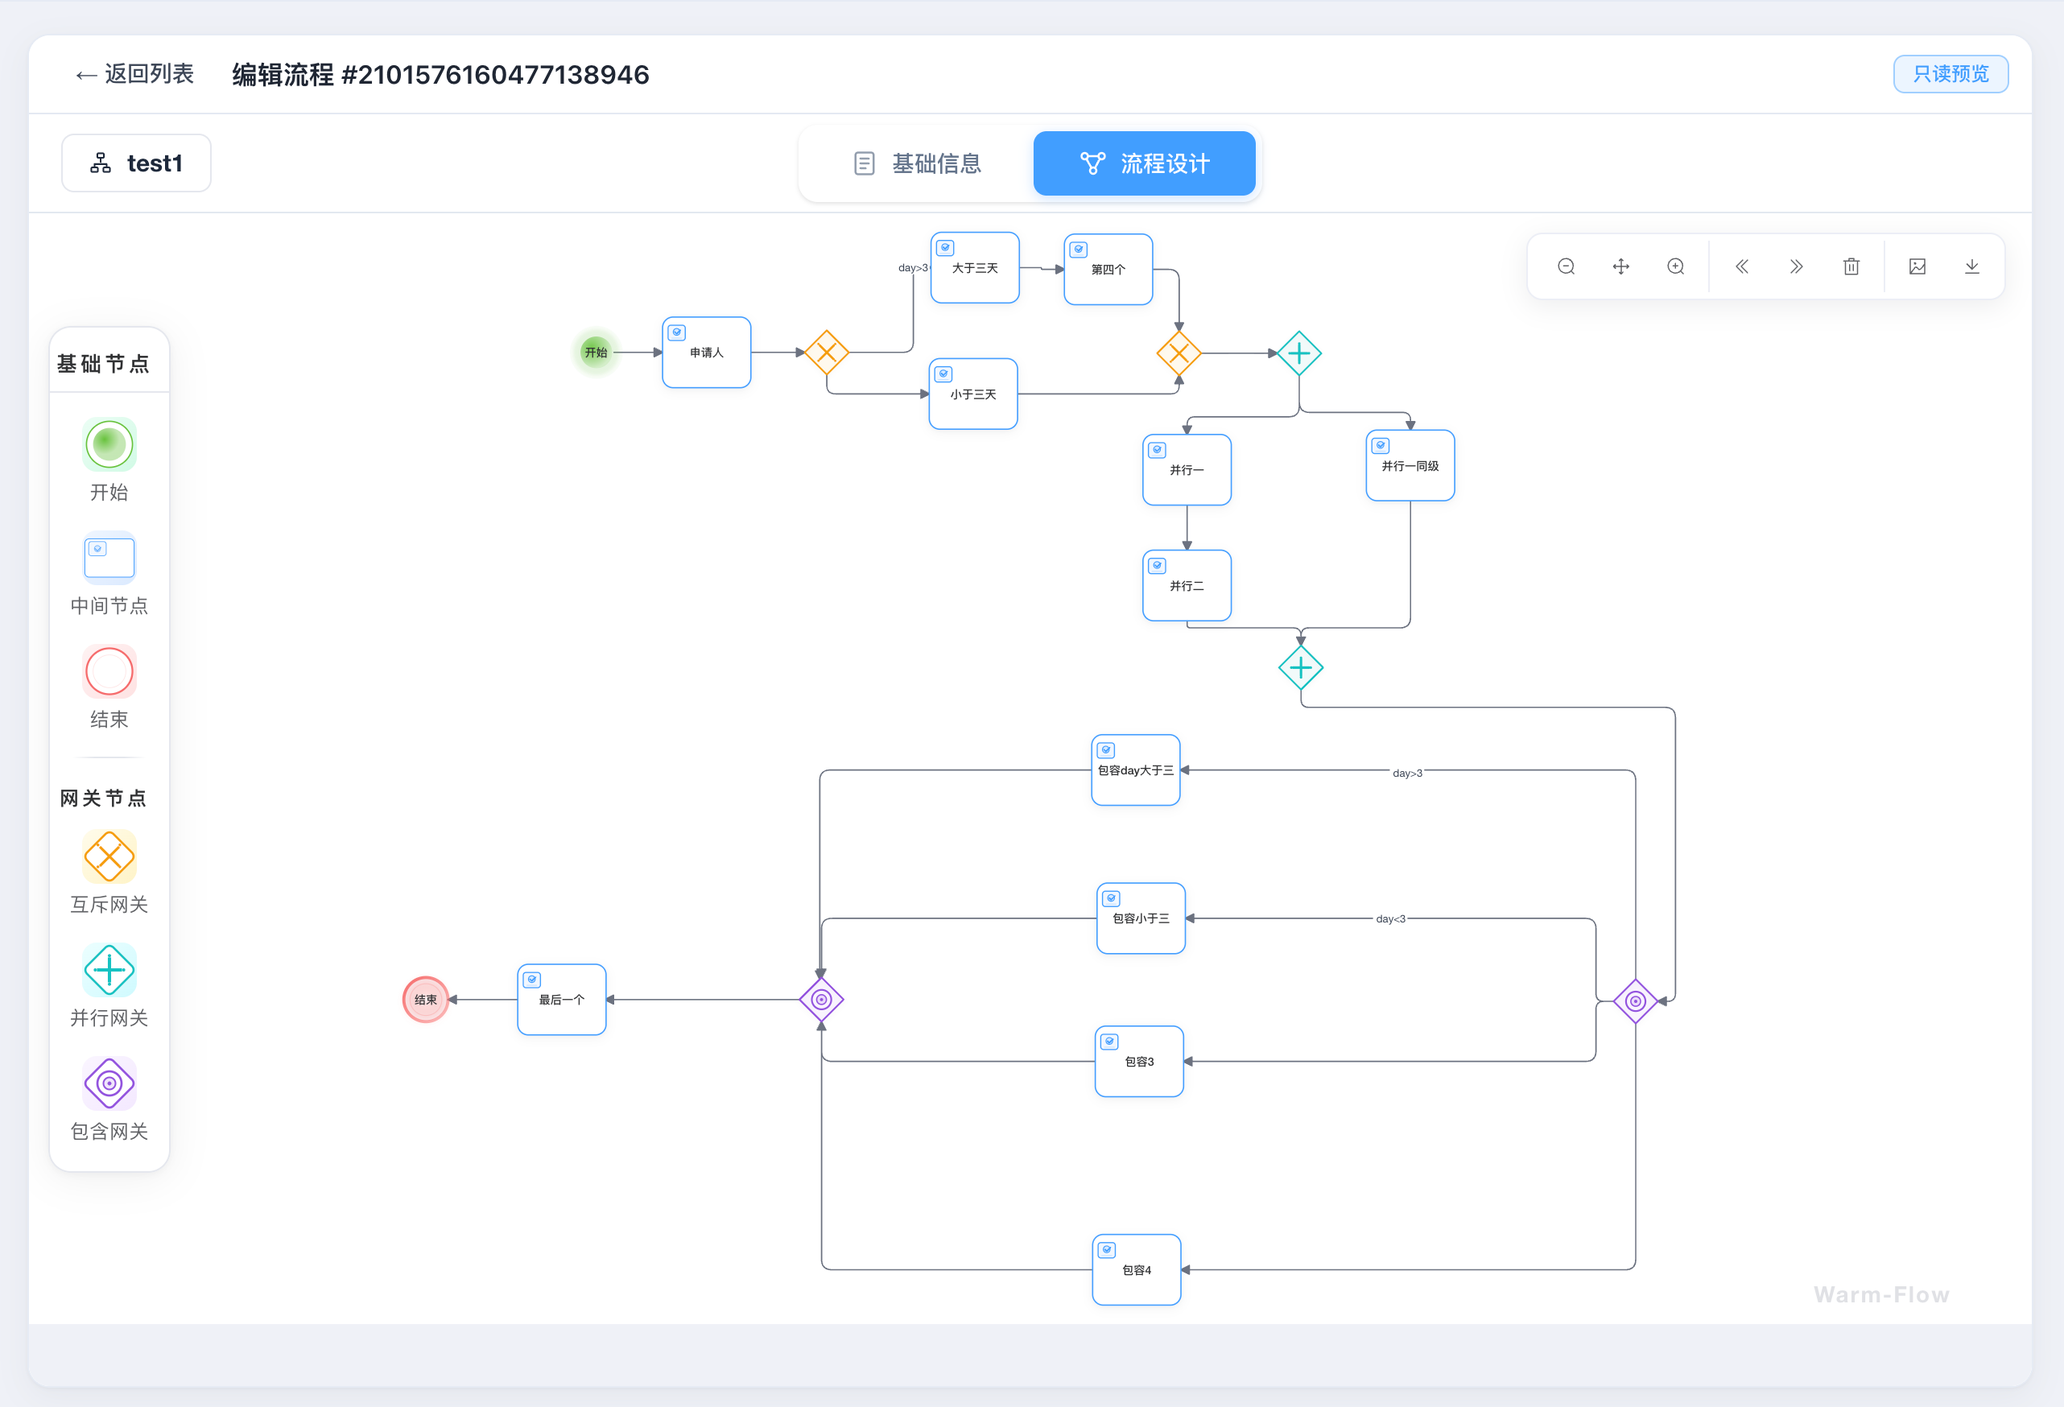
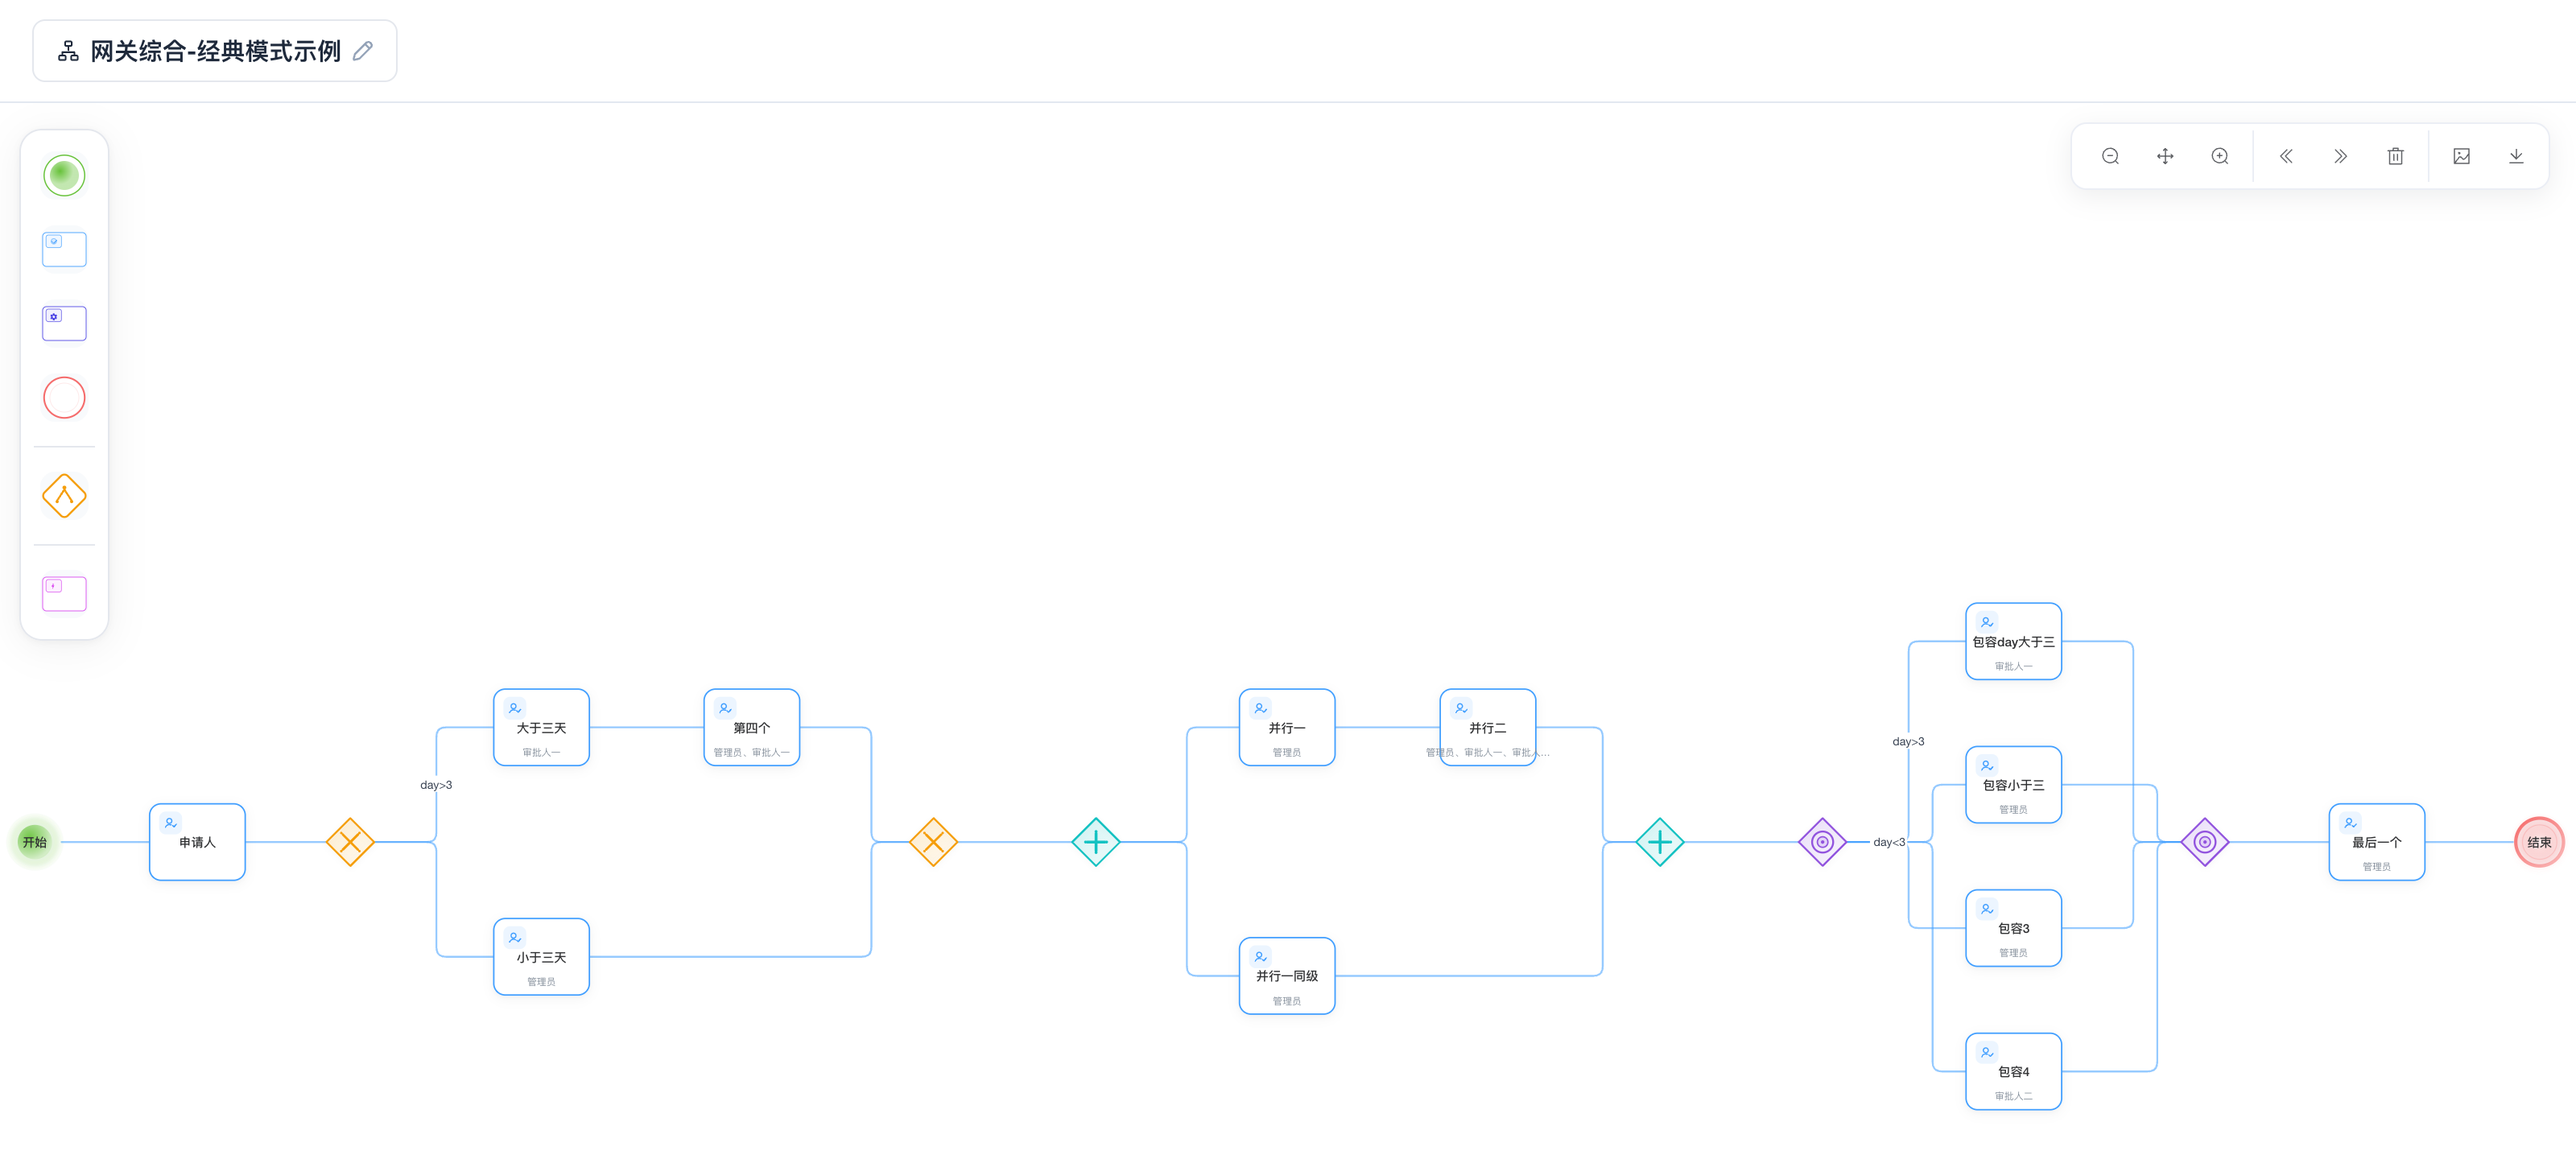
style: 文档站样式与主题优化
- 新增 ux.scss，tokens/content/index 同步；theme 关闭面包屑、汉化上下篇文案
- 设计器两种模型截图重新导出（classic/dingtalk）

diff --git a/src/.vuepress/styles/ux.scss b/src/.vuepress/styles/ux.scss
@@ -1,0 +1,77 @@
+// 使用与交互打磨：焦点环 / 滚动条 / reduced-motion / 搜索弹窗统一。
+// 均为全局增强，不影响布局与既有组件样式。
+
+// ------------------------------------------------------------
+// 1. 键盘焦点环：浏览器默认 outline 在两套主题下观感不一，
+//    统一为品牌色 2px 环。只在 :focus-visible（键盘导航）时出现，
+//    鼠标点击不会显示，搜索输入框自带的边框样式也不受影响。
+// ------------------------------------------------------------
+:focus-visible {
+    outline: 2px solid var(--wv-brand);
+    outline-offset: 2px;
+}
+
+// ------------------------------------------------------------
+// 2. 细滚动条：侧栏与 TOC 用系统默认滚动条，Windows 下粗黑突兀，
+//    统一成窄条 + 主题分隔线色（悬停加深），与正文观感一致。
+// ------------------------------------------------------------
+.vp-sidebar > .vp-sidebar-links,
+.vp-toc-wrapper,
+.vp-toc-wrapper-inner {
+    scrollbar-width: thin;
+    scrollbar-color: var(--wv-line) transparent;
+
+    &::-webkit-scrollbar {
+        width: 6px;
+        height: 6px;
+    }
+    &::-webkit-scrollbar-thumb {
+        border-radius: 6px;
+        background: var(--wv-line);
+
+        &:hover { background: var(--wv-fg-mute); }
+    }
+    &::-webkit-scrollbar-track {
+        background: transparent;
+    }
+}
+
+// ------------------------------------------------------------
+// 3. 搜索弹窗统一到站点色板：
+//    - 关键词 mark 高亮：浏览器默认是刺眼的黄色荧光笔底，
+//      改为品牌色柔和底 + 前景色不变（亮暗主题都成立）
+//    - 选中/悬停记录的背景走 --vp-c-accent-hover（tokens.scss 已映射到品牌深蓝），
+//      白字与蓝底的对比度 4.6:1，满足正文要求
+// ------------------------------------------------------------
+.slimsearch-record-matches mark,
+.slimsearch-suggestions mark {
+    padding: 0 2px;
+    border-radius: 3px;
+    background: color-mix(in srgb, var(--wv-amber) 28%, transparent);
+    color: inherit;
+}
+
+.slimsearch-record-matches.active mark,
+.slimsearch-record-matches:hover mark {
+    background: rgba(255, 255, 255, 0.28);
+}
+
+// 弹窗圆角与站点卡片一致
+.slimsearch-modal {
+    border: 1px solid var(--wv-line);
+}
+
+// ------------------------------------------------------------
+// 4. 减弱动态效果：尊重系统「减少动态效果」偏好，
+//    关闭装饰性动画与过渡（滚动定位仍即时可用）。
+// ------------------------------------------------------------
+@media (prefers-reduced-motion: reduce) {
+    *,
+    *::before,
+    *::after {
+        animation-duration: 0.01ms !important;
+        animation-iteration-count: 1 !important;
+        transition-duration: 0.01ms !important;
+        scroll-behavior: auto !important;
+    }
+}

diff --git a/src/.vuepress/styles/content.scss b/src/.vuepress/styles/content.scss
@@ -16,6 +16,12 @@
     }
     h3 { margin-top: 1.8em; }
 
+    // 锚点跳转防遮挡：导航栏是 fixed 且高 44px，而标题 scroll-margin-top 默认为 0，
+    // 点目录跳转时标题会正好落在 top:0 被导航栏整行盖住（实测被遮 44px）。
+    :is(h1, h2, h3, h4, h5, h6) {
+        scroll-margin-top: 60px;
+    }
+
     a { color: var(--wv-brand); }
 
     // 行内代码
@@ -47,10 +53,15 @@
     }
     table img { max-width: 100%; }
 
-    // 正文图片：描边 + 圆角 + 居中
+    // 正文图片：描边 + 圆角 + 居中 + 不透明浅色底板
+    // 底板是给 SVG 插图用的：画布透明，暗色主题下浅灰文字会落到近黑背景上（详见 tokens.scss）
+    // height: auto 必需：插图写了 width/height 属性（预留空间防抖动），
+    // 若不禁用固定高度，窄屏下 max-width 把宽度压小、高度仍按属性值 → 图外多出一圈空白
     img {
         border: 1px solid var(--wv-line);
         border-radius: 10px;
+        background: var(--wv-figure-bg);
+        height: auto;
     }
     p:has(> img) { text-align: center; }
 
@@ -84,11 +95,40 @@
     background: var(--wv-amber);
 }
 
-// 底部翻页卡片
-.vp-page-nav a {
-    border: 1px solid var(--wv-line);
-    border-radius: 10px;
-    background: var(--wv-bg);
+// 底部翻页卡片：覆盖 theme-hope 默认的贴边小框样式，
+// 做成对称的两张卡（仅单边有链接时自动占满整行），hint 是小字标签、标题加粗
+.vp-page-nav {
+    gap: 12px;
+    padding-block: 1.25rem;
+    border-top: 1px solid var(--wv-line);
+
+    .auto-link {
+        flex: 1 1 0;
+        margin: 0;
+        padding: 12px 16px;
+        border: 1px solid var(--wv-line);
+        border-radius: 10px;
+        background: var(--wv-bg);
+        color: var(--wv-fg);
+        transition: border-color .2s, background .2s;
+
+        &:hover {
+            background: var(--wv-bg-hero);
+            border-color: var(--wv-brand);
+        }
+
+        .hint {
+            font-size: 11.5px;
+            line-height: 1.6;
+            color: var(--wv-fg-mute);
+        }
+
+        .link {
+            margin-top: 4px;
+            font-weight: 600;
+            color: var(--wv-brand);
+        }
+    }
 }
 
 // 右侧 TOC 导轨

diff --git a/src/.vuepress/styles/tokens.scss b/src/.vuepress/styles/tokens.scss
@@ -7,6 +7,9 @@
     --wv-bg: #ffffff;
     --wv-bg-soft: #f6f8fa;
     --wv-bg-hero: #eef4fa;
+    // 图示底板：正文里的 SVG 图是「浅色填充 + 浅灰文字」的配色，
+    // 画布本身透明，必须给一层不透明浅底，否则文字会落在页面底色上（暗色下对比度崩到 1.3:1）
+    --wv-figure-bg: #ffffff;
     --wv-fg: #1c2933;
     --wv-fg-mute: #5b6b7a;
     --wv-line: #e3e9ef;
@@ -24,6 +27,7 @@
     --vp-c-divider: var(--wv-line);
     --vp-c-accent: var(--wv-brand);
     --vp-c-accent-bg: var(--wv-brand);
+    --vp-c-accent-hover: var(--wv-brand-ink);
     --vp-c-accent-soft: var(--wv-bg-hero);
 }
 
@@ -35,6 +39,9 @@ html.dark {
     --wv-bg: #0d1117;
     --wv-bg-soft: #11161d;
     --wv-bg-hero: #0f1e2d;
+    // 暗色下也保持浅底（不透明白色）：图示配色为浅色系，
+    // 若让画布透明，图内 #5F5E5A 文字压在 #0d1117 上仅约 2.9:1、标题 #2C2C2A 仅约 1.3:1
+    --wv-figure-bg: #ffffff;
     --wv-fg: #d5dde5;
     --wv-fg-mute: #8b98a5;
     --wv-line: #1f2630;
@@ -48,6 +55,7 @@ html.dark {
     --vp-c-divider: var(--wv-line);
     --vp-c-accent: var(--wv-brand);
     --vp-c-accent-bg: var(--wv-brand);
+    --vp-c-accent-hover: #2b5c8f;
     --vp-c-accent-soft: var(--wv-bg-hero);
 }
 

diff --git a/src/.vuepress/theme.ts b/src/.vuepress/theme.ts
@@ -15,6 +15,9 @@ export default hopeTheme(
         docsDir: "src",
         print: false,
         pageInfo: false,
+        // 面包屑只能显示 Master / Primary 这类英文目录名（页面 H1 + 侧栏 + TOC 已覆盖导航），
+        // 显示出来反而拉低观感，直接关闭
+        breadcrumb: false,
         locales: {
             "/": {
                 navbar,
@@ -22,6 +25,8 @@ export default hopeTheme(
                 displayFooter: false,
                 metaLocales: {
                     editLink: "前往 Gitee 编辑此页",
+                    prev: "上一篇",
+                    next: "下一篇",
                 },
             },
         },

diff --git a/src/.vuepress/styles/index.scss b/src/.vuepress/styles/index.scss
@@ -3,6 +3,7 @@
 // 令牌与局部覆写。sidebar 依赖 tokens 里的 --wv-*，顺序不能颠倒。
 @use "fonts";
 @use "tokens";
+@use "ux";
 @use "sidebar";
 @use "home";
 @use "content";
